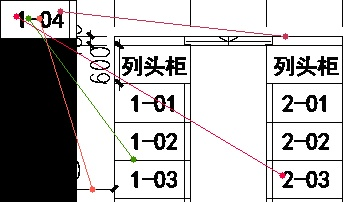
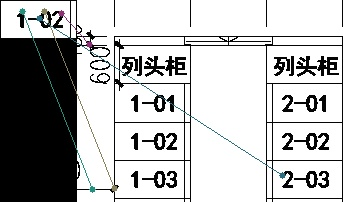
没有想到办法来很好地实现预期目标

diff --git a/Main.py b/Main.py
@@ -25,24 +25,23 @@ superglue_config = {
 
 superpoint = SuperPoint(superpoint_config).to(device)
 superglue = SuperGlue(superglue_config).to(device)
-print("✅ Models loaded successfully.")
 
 # ==========================
 # 2. 读取图片
 # ==========================
-template_path = "template.png"
+template_path = "template2.png"
 scene_path = "test_micro_1.png"
 
 img1 = cv2.imread(template_path, cv2.IMREAD_GRAYSCALE)
 img2 = cv2.imread(scene_path, cv2.IMREAD_GRAYSCALE)
-
-if img1 is None or img2 is None:
-    raise FileNotFoundError("❌ 无法读取图片，请检查路径！")
+cv2.imshow("Template", img1)
+cv2.imshow("Scene", img2)
 
 # 转成Tensor并归一化
 def preprocess(img):
     img = torch.from_numpy(img / 255.).float()[None, None].to(device)
     return img
+
 
 img1_t = preprocess(img1)
 img2_t = preprocess(img2)
@@ -56,7 +55,7 @@ with torch.no_grad():
 
 # 检查关键点数量
 if pred1['keypoints'][0].shape[0] == 0 or pred2['keypoints'][0].shape[0] == 0:
-    raise RuntimeError("❌ 未检测到关键点，请检查输入图片。")
+    raise RuntimeError("未检测到关键点，请检查输入图片。")
 
 # ==========================
 # 4. SuperGlue匹配
@@ -83,7 +82,8 @@ kpts1 = pred2['keypoints'][0].cpu().numpy()
 matched_kpts0 = kpts0[valid]
 matched_kpts1 = kpts1[matches[valid]]
 
-print(f"✅ 匹配到 {len(matched_kpts0)} 对关键点")
+print(f"匹配到 {len(matched_kpts0)} 对关键点")
+
 
 # ==========================
 # 5. 可视化匹配结果
@@ -104,6 +104,7 @@ def draw_matches(img1, img2, kpts0, kpts1):
         cv2.line(vis, (int(x0), int(y0)), (int(x1 + w1), int(y1)), color, 1)
 
     return vis
+
 
 vis = draw_matches(img1, img2, matched_kpts0, matched_kpts1)
 cv2.imwrite("result_matches.jpg", vis)
